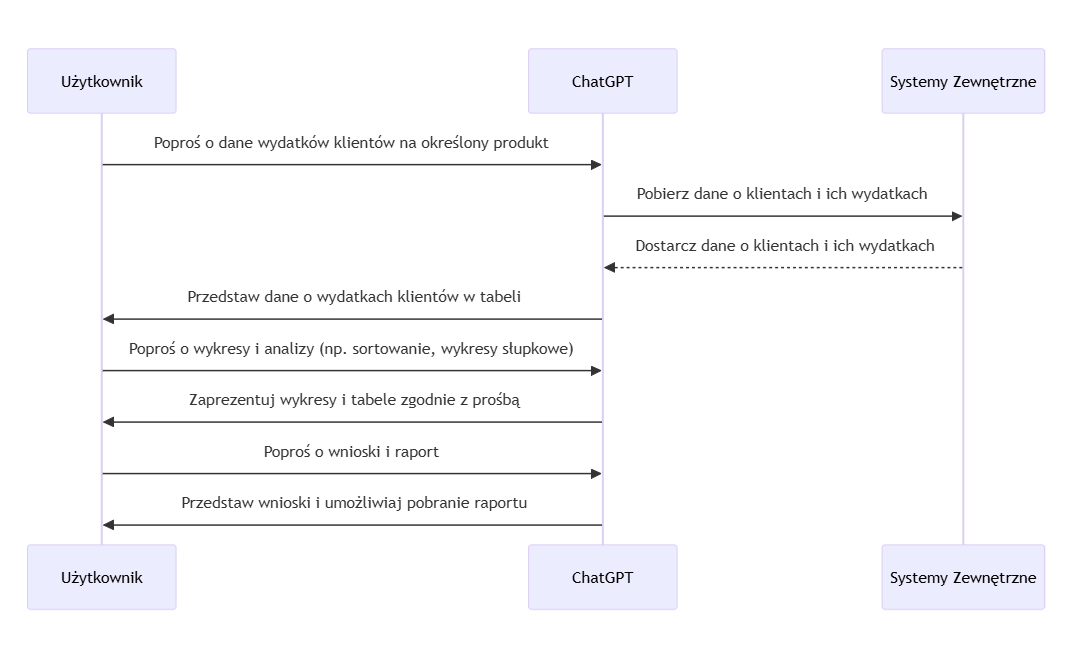
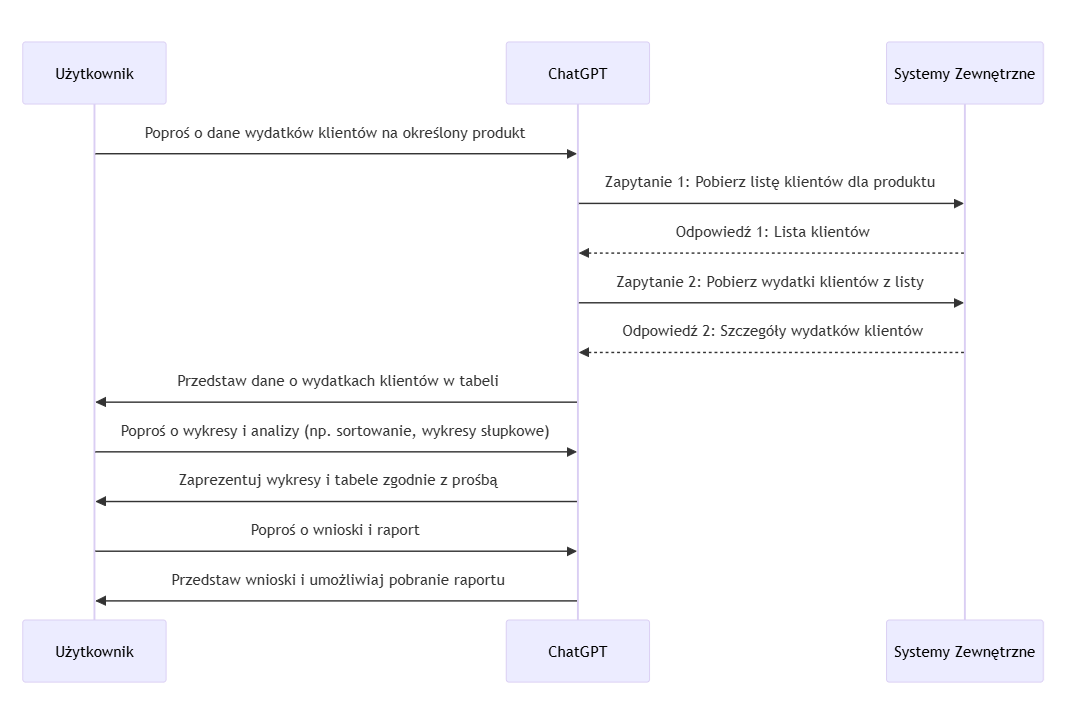
Update article on complex integrations with external systems: enhance section titles and add visualizations for better clarity

diff --git a/data/blog/zlozone-integracje-z-systematmi-zewnetrznymi.md b/data/blog/zlozone-integracje-z-systematmi-zewnetrznymi.md
@@ -49,7 +49,7 @@ Modele GPT, są na tyle zaawansowane, że potrafią zrozumieć kontekst i realiz
 
 Takie podejście umożliwia przekształcenie tradycyjnych, skomplikowanych interfejsów użytkownika, wypełnionych wieloma polami formularzy, w proste i intuicyjne interakcje w języku naturalnym. Zamiast wymagać od użytkowników wypełniania formularza, można pozwolić im poprosić asystenta o pomoc w naturalny sposób.
 
-# Pełny przykład użycia łancucha zapytań API
+# Extra - wizualizacja scenariusza interakcji z Chatem GPT
 
 Załóżmy scenariusz, że użytkownik chciałby pobrać dane o sprzedaży produktu o zadanym identyfiaktorze dla każdego unikalnego klienta, który go kupił.
 
@@ -60,6 +60,10 @@ Tutaj przykład zapytania i ostatecznego rezultatu:
 Oto diagram sekwencji, który pokazuje cały proces:
 
 ![Diagram sekwencji.](/blog/zlozone-integracje-z-systematmi-zewnetrznymi/diagram-sekwencji.jpg?style=centerme)
+
+Dane wymienione z systemu 1 są wykorzystywane jako dane wejściowe dla systemu 2:
+
+![HTTP](/blog/zlozone-integracje-z-systematmi-zewnetrznymi/http.jpg?style=centerme)
 
 Wizualizacja interakcji z Chatem GPT:
 
